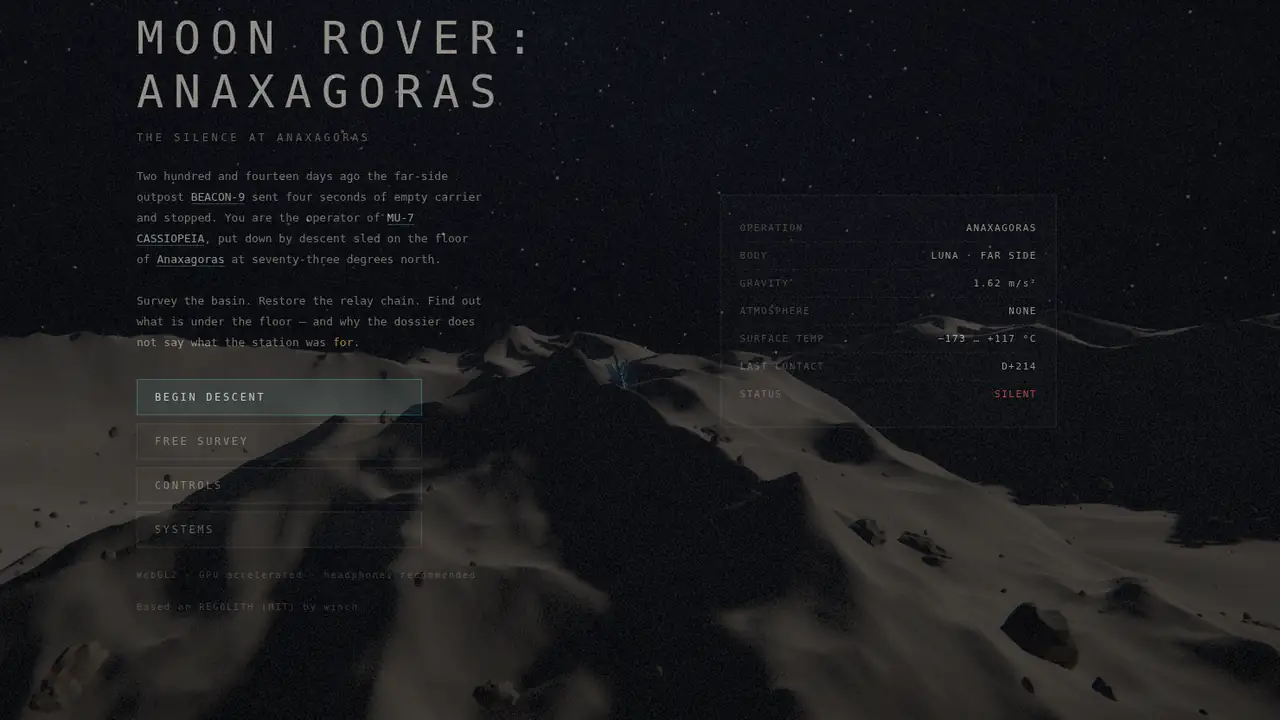
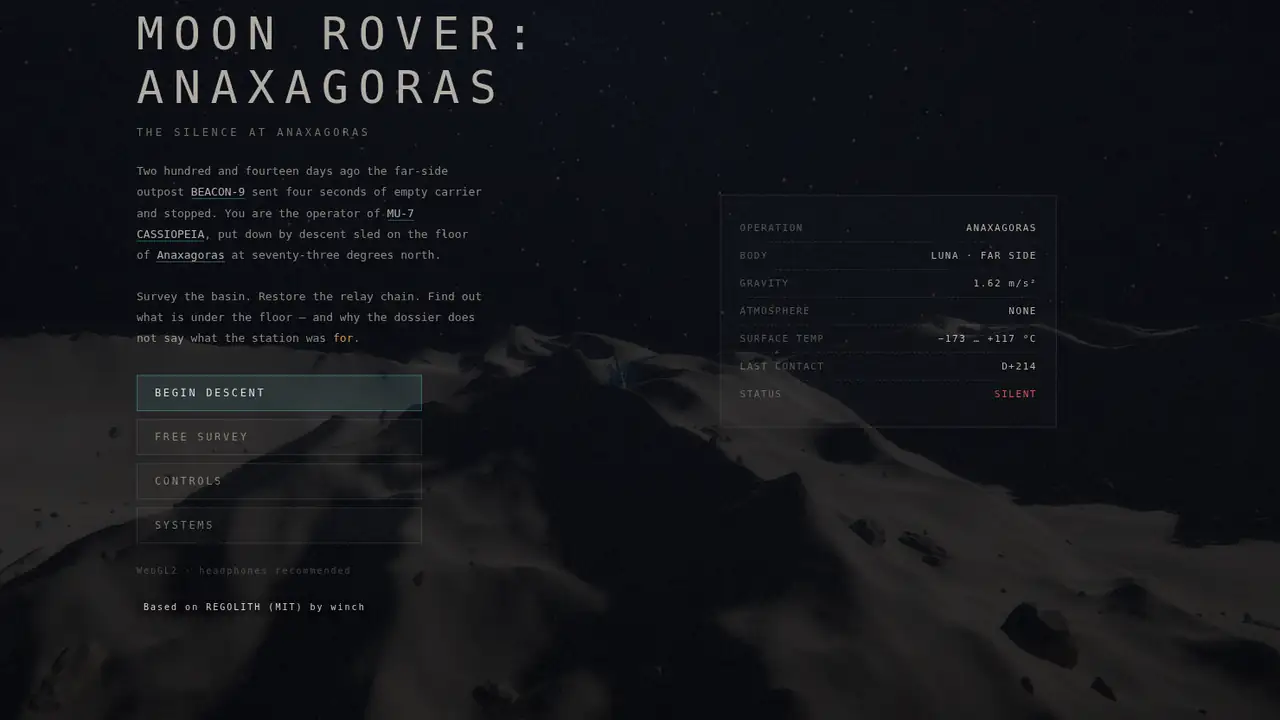
R6 P2: say which games are counted, and re-shoot the Moon Rover title
Classics load with ?internal=1 and are not counted. Home, All games, About,
and each classic page say visit counts cover Toolstack Lab's own games only.
The content-policy line now says these hub pages set no cookies, so it no
longer conflicts with analytics inside our own games. Moon Rover's FAQ matches
the phone menu-scroll fix. Updated dates use a non-breaking hyphen on their
own line. 01-title is cropped from the live game with the credit line visible.

vercel.json is unchanged.

diff --git a/src/site.css b/src/site.css
@@ -1687,8 +1687,11 @@ body > .site-header, body > .site-footer { flex: none; }
 .hero-actions { display: flex; flex-wrap: wrap; align-items: center; gap: var(--s3); }
 .hero-actions .btn-link { padding-left: var(--s2); }
 
-/* Detail: visits/Updated line belongs to the title column (left-aligned with H1) */
+/* Detail: visits/Updated line belongs to the title column (left-aligned with H1).
+   Updated sits on its own line and does not break inside the date (R6 P2). */
 .detail-head .score-hint { margin: var(--s2) 0 0; }
+.detail-head .score-hint .score-updated { display: block; white-space: nowrap; }
+.detail-head .score-scope { margin: var(--s1) 0 0; font-size: var(--fs-xs); color: var(--muted); max-width: 42ch; }
 .detail-cta .detail-actions { margin: 0; flex-wrap: nowrap; align-items: center; }
 @media (max-width: 480px) {
   .detail-cta .detail-actions { gap: var(--s2); }

diff --git a/README.md b/README.md
@@ -65,6 +65,9 @@ cookie-free Web Analytics.
   | spud-fling | own tag (site 458b…, token ca5fd27c…) | `?src=hub` → own tag | site 458b…, all hosts |
   | pips-bloom-isle | own tag (site 3e2e…, token cece3f04…); the zone beacon script also loads but sends nothing | `?internal=1` → own tag skipped; the Cloudflare zone beacon (site 263d…, token d6efacb3…) is the only one | site 3e2e… + site 263d… rows with requestHost bloom-isle.gettoolstacklab.com |
   | merge-tiles (third-party) | not counted | `?internal=1`, no beacon | — |
+  | moon-rover (third-party) | not counted | `?internal=1`, no beacon | — |
+
+Classics stay uncounted on purpose. The home Classics shelf, the All games page, About, and each classic's page say "Visit counts cover Toolstack Lab's own games only." Do not invent a count for them.
 
 - **Hub vs direct:** the beacon drops the query string from the page URL and Web Analytics has no query dimension, so
   `?src=hub` itself never reaches the data (it only selects the behaviour). The split is the **referrer host**: our own
